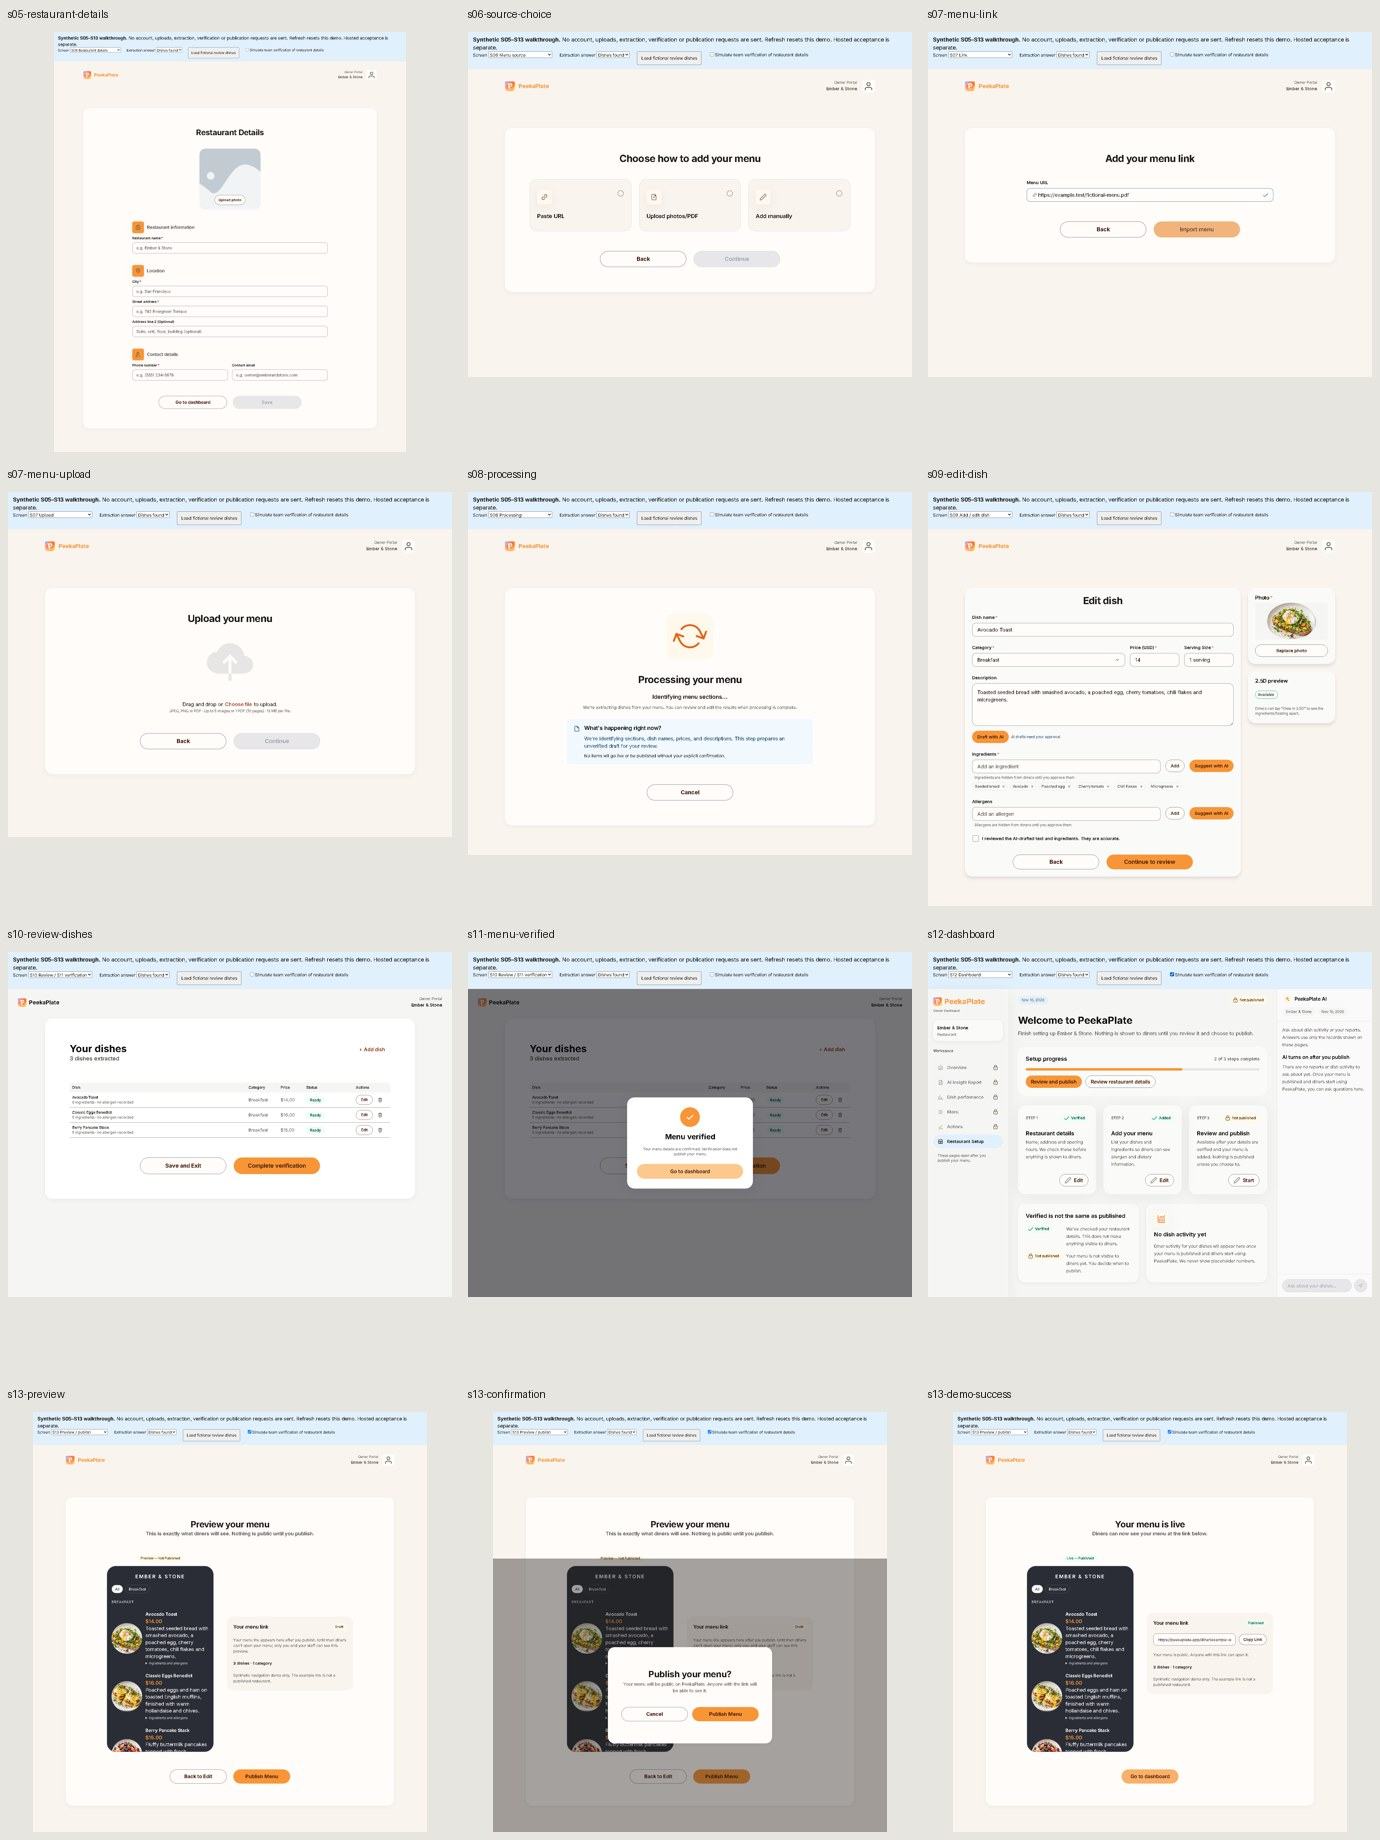
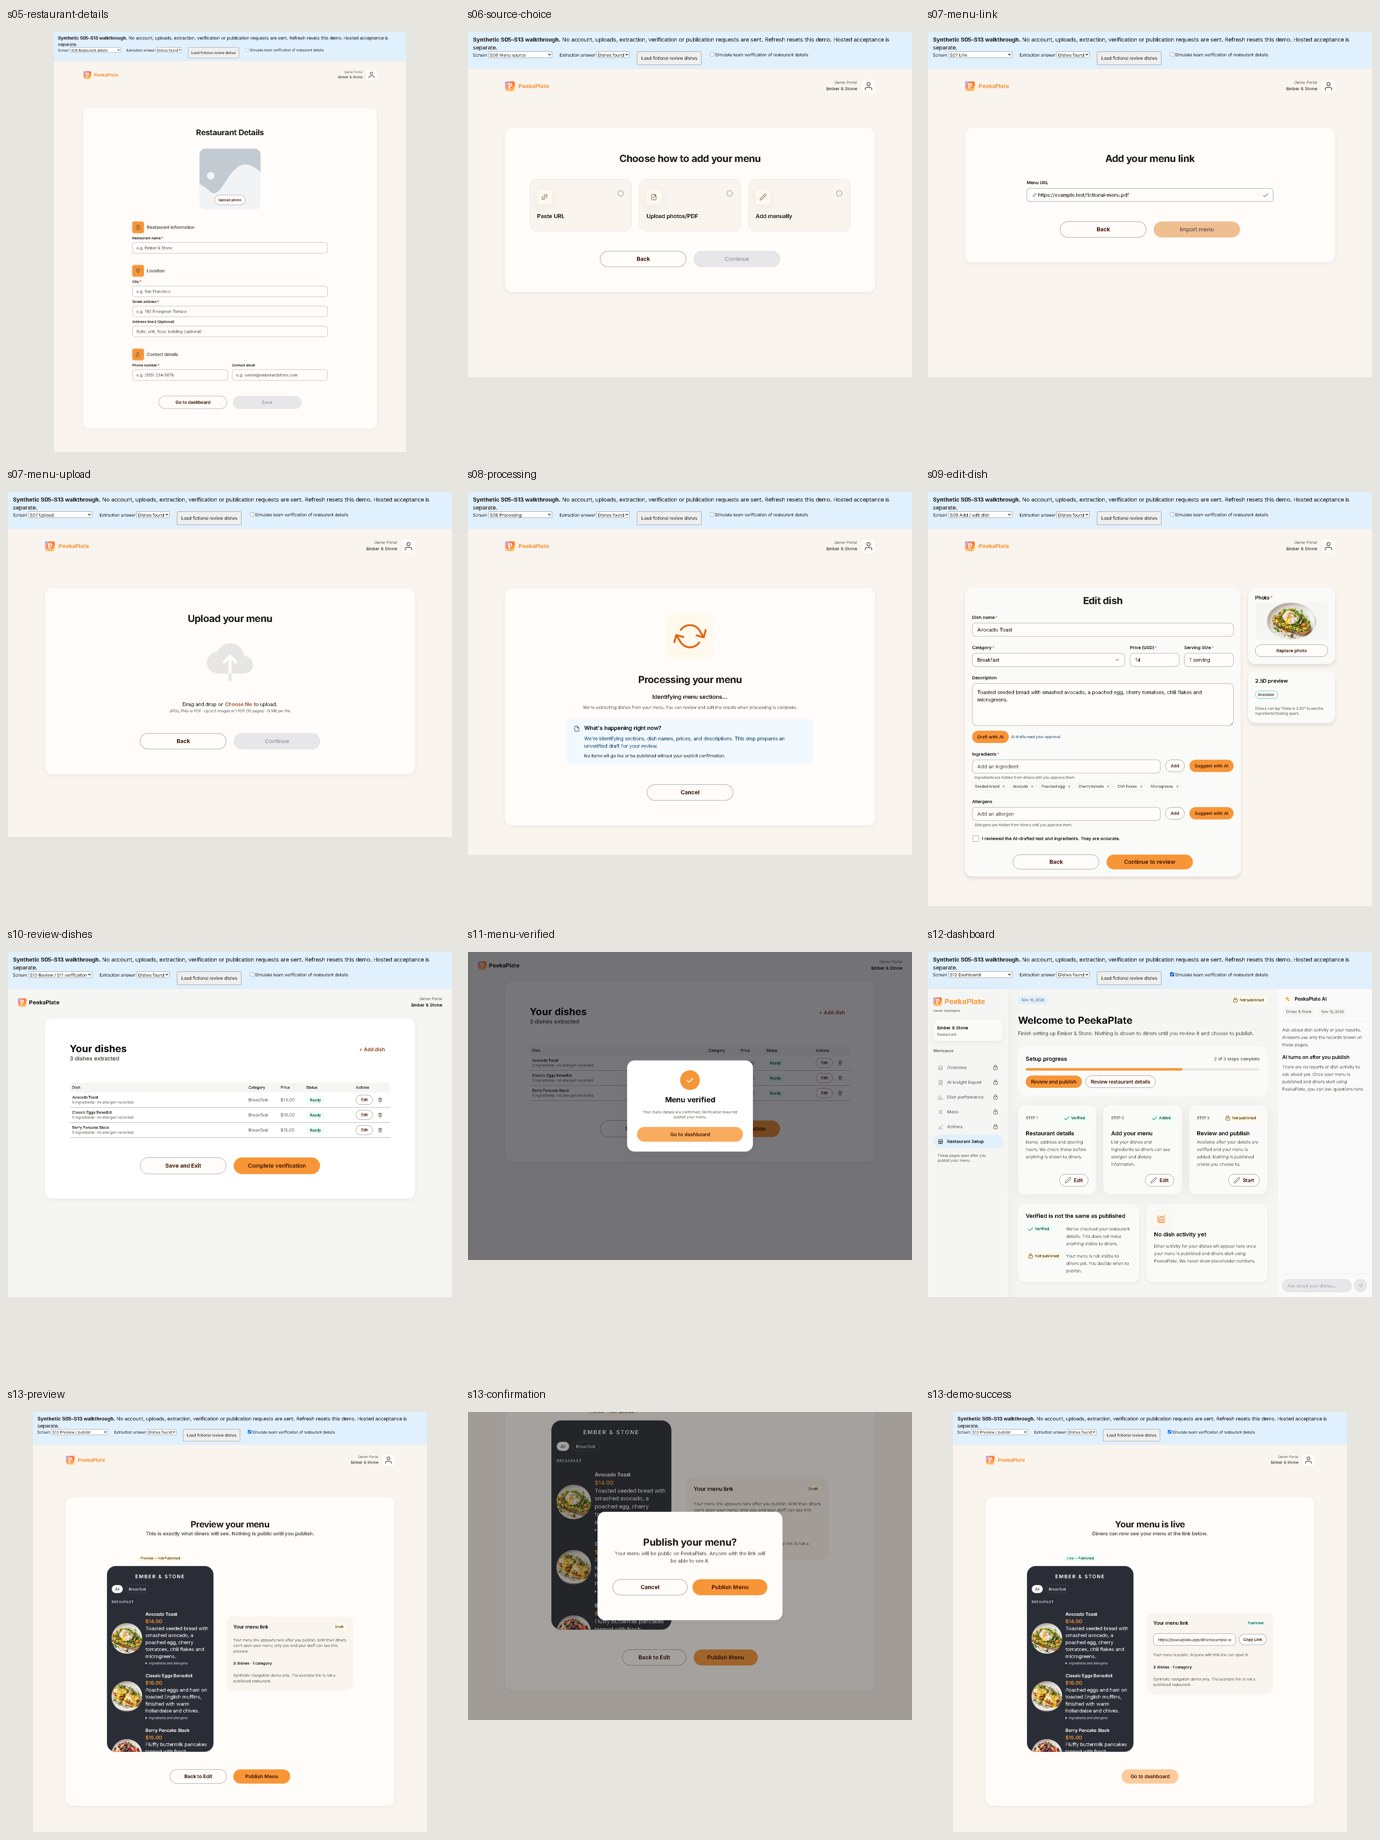
fix(owner): reject changed verification snapshots and refresh flow evidence

diff --git a/tests/e2e/owner-workspace.spec.ts b/tests/e2e/owner-workspace.spec.ts
@@ -73,6 +73,7 @@ async function fixture(context: BrowserContext) {
     invalidActor: false,
     drafts: {} as Record<string, DishDraft[]>,
     profiles: {} as Record<string, RestaurantProfile>,
+    afterVerification: null as ((draft: DishDraft) => void) | null,
     profileStatus: 200,
     setupStatus: 200,
     delaySetup: false,
@@ -410,6 +411,7 @@ async function fixture(context: BrowserContext) {
         if (!draft || draft.draft_version !== input.expectedVersion)
           return route.fulfill({ status: 409, json: { error: 'version_conflict' }, headers });
         draft.verification_status = 'verified';
+        state.afterVerification?.(draft);
         return route.fulfill({ json: { draft }, headers });
       }
       if (/^drafts\/[^/]+\/photos\/[^/]+\/approve$/.test(path)) {
@@ -589,8 +591,8 @@ async function addCategory(page: Page, category: string) {
 
 async function openAccount(page: Page) {
   const menu = page.locator('details.pp-onboard__account-menu');
-  await expect(menu).toBeAttached();
-  if ((await menu.getAttribute('open')) === null) await menu.locator('summary').click();
+  if ((await menu.count()) && (await menu.getAttribute('open')) === null)
+    await menu.locator('summary').click();
 }
 
 async function preparedPublication(context: BrowserContext) {
@@ -1106,6 +1108,9 @@ test('profile save reloads authenticated details and never verifies an owner sub
   await expect.poll(() => state.profiles[venue.venueId]?.version).toBe(1);
   expect(state.profiles[venue.venueId]?.status).toBe('submitted');
   await page.reload();
+  await expect(
+    page.getByRole('heading', { name: 'Welcome to PeekaPlate', exact: true }),
+  ).toBeVisible();
   await openAccount(page);
   await page.getByRole('button', { name: 'Restaurant details', exact: true }).click();
   await expect(page.getByRole('textbox', { name: /^Street address/ })).toHaveValue(
@@ -1545,6 +1550,9 @@ test('a delayed review session cannot reopen an editor after shell navigation', 
     },
   ];
   await signIn(page);
+  await expect(
+    page.getByRole('button', { name: `Edit ${item.effective.name}`, exact: true }),
+  ).toBeVisible();
   state.reviewStarted = false;
   state.delayReview = true;
   await page.getByRole('button', { name: `Edit ${item.effective.name}`, exact: true }).click();
@@ -2059,6 +2067,19 @@ test('authored S10 verifies actual saved drafts without publication and preserve
   await page.getByRole('button', { name: 'Go to dashboard', exact: true }).click();
   await page.reload();
   await page.getByRole('button', { name: 'Edit: Add your menu', exact: true }).click();
+  state.afterVerification = (draft) => {
+    draft.removed_at = new Date().toISOString();
+    const replacement = structuredClone(draft);
+    replacement.id = crypto.randomUUID();
+    replacement.draft_id = replacement.id;
+    replacement.removed_at = null;
+    replacement.verification_status = 'not_verified';
+    state.drafts[venue.venueId]!.push(replacement);
+    state.afterVerification = null;
+  };
+  await page.getByRole('button', { name: 'Complete verification', exact: true }).click();
+  await expect(page.getByRole('alert')).toContainText('Saved data changed');
+  await expect(page.getByRole('dialog', { name: 'Menu verified' })).toHaveCount(0);
   state.venues = [];
   state.menuStatus = 403;
   await page.getByRole('button', { name: 'Complete verification', exact: true }).click();

diff --git a/tests/e2e/owner-journey.spec.ts b/tests/e2e/owner-journey.spec.ts
@@ -13,7 +13,10 @@ for (const width of [1440, 390]) {
       expect(await page.evaluate(() => document.documentElement.scrollWidth <= innerWidth)).toBe(
         true,
       );
-      await page.screenshot({ path: info.outputPath(`${name}-${width}.png`), fullPage: true });
+      await page.screenshot({
+        path: info.outputPath(`${name}-${width}.png`),
+        fullPage: !['s11-menu-verified', 's13-confirmation'].includes(name),
+      });
     };
     await page.goto('http://127.0.0.1:5174/owner-onboarding.html?journey');
     await expect(page.getByText('Synthetic S05–S13 walkthrough.')).toBeVisible();
@@ -62,6 +65,12 @@ for (const width of [1440, 390]) {
       'Ember & Stone',
     );
     await shot('s13-preview');
+    const phone = page.getByRole('region', { name: 'Draft diner menu', exact: true });
+    await phone.locator('article').last().scrollIntoViewIfNeeded();
+    await expect(phone.locator('article').last()).toBeInViewport();
+    await phone
+      .getByRole('heading', { name: 'Ember & Stone', exact: true })
+      .scrollIntoViewIfNeeded();
     await page.getByRole('button', { name: 'Publish Menu', exact: true }).click();
     await expect(page.getByRole('dialog', { name: 'Publish your menu?' })).toBeVisible();
     await shot('s13-confirmation');

diff --git a/frontend/console/src/owner/OwnerMenuWorkspace.tsx b/frontend/console/src/owner/OwnerMenuWorkspace.tsx
@@ -727,6 +727,7 @@ export function OwnerMenuWorkspace({
           (draft) =>
             !confirmed.some(
               (saved) =>
+                !saved.removed_at &&
                 saved.id === draft.id &&
                 saved.draft_version === draft.draft_version &&
                 saved.verification_status === 'verified',

diff --git a/docs/owner-flow-corrections.md b/docs/owner-flow-corrections.md
@@ -106,7 +106,7 @@ and migration; the old staging API cannot satisfy the new profile/setup reads.
 ## Pictures and verification
 
 The 24 screenshots below use real rendered components with fictional local
-state. Browser navigation passed at 1440px and 390px in 16.7s including startup.
+state. Browser navigation passed at 1440px and 390px in 14.3s including startup.
 They are not hosted acceptance or physical-phone/camera calibration.
 
 ![Desktop flow](review/owner-flow-screens/flow-overview-1440.jpg)
@@ -129,4 +129,11 @@ They are not hosted acceptance or physical-phone/camera calibration.
 Local database checks passed: 382 pgTAP assertions, 158 Worker/database integration
 tests (36.89s for integration), plus the disposable local Worker command smoke.
 The suite uses the restricted runtime role, not a privileged substitute.
-Final whole-repository/browser verification is recorded on the PR's final commit.
+Connected-workspace Chromium checks passed 50/50 in 54.4s, including persisted
+save/reload, private photos, exact active-draft verification, denial and session
+switches. The related authored onboarding/review/photo/preview suite passed 52/52
+in 1.1 minutes. `pnpm check` passed 1,957 unit and 117 script tests; builds and
+strict preview isolation checks passed. The hosted PR walkthrough was navigated
+in Brave through S05, URL import simulation, edit/review, verification, dashboard
+and official S13 confirmation/example-link state. That checks the hosted demo,
+not real API/extraction/publication acceptance. Final commit/CI are on the PR.

diff --git a/errors.md b/errors.md
@@ -4519,6 +4519,13 @@ The original S05 photo-baseline regression exposed a compatibility distinction:
 private blob URL arrival is not a changed saved photo. The live adapter supplies
 stable photo identity; callers without it retain the authored URL-baseline rule.
 
+The final snapshot also rejects a removed original when another tab adds a new
+unverified draft with the same active count. The fixture reproduces the stale
+success before the identity predicate is corrected. The final 50-case workspace
+suite passes in 54.4s. Its delayed-review test now waits for initial hydration
+before delaying the intended editor request; direct loading/picker states retain
+their existing account-menu helper behavior.
+
 
 <!-- automatic observation; not root cause -->
 ```json

diff --git a/docs/CONTEXT.md b/docs/CONTEXT.md
@@ -417,7 +417,7 @@ The append-only `errors.md` operational ledger is deliberately outside source fi
         "contracts",
         "tokens"
       ],
[2 lines of base64/hex data omitted]
     },
     {
       "id": "backend",
